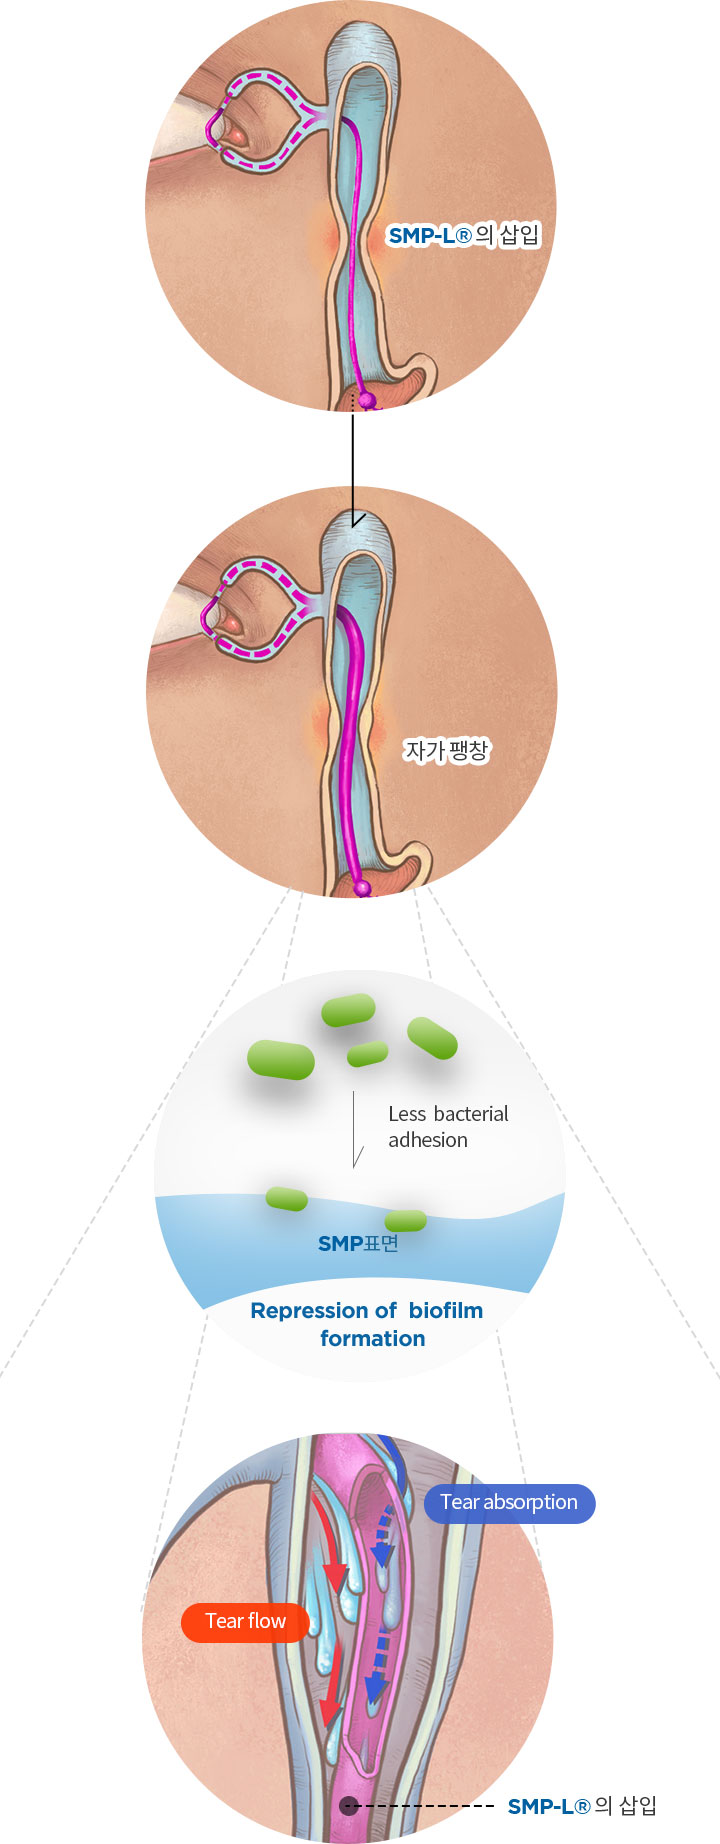
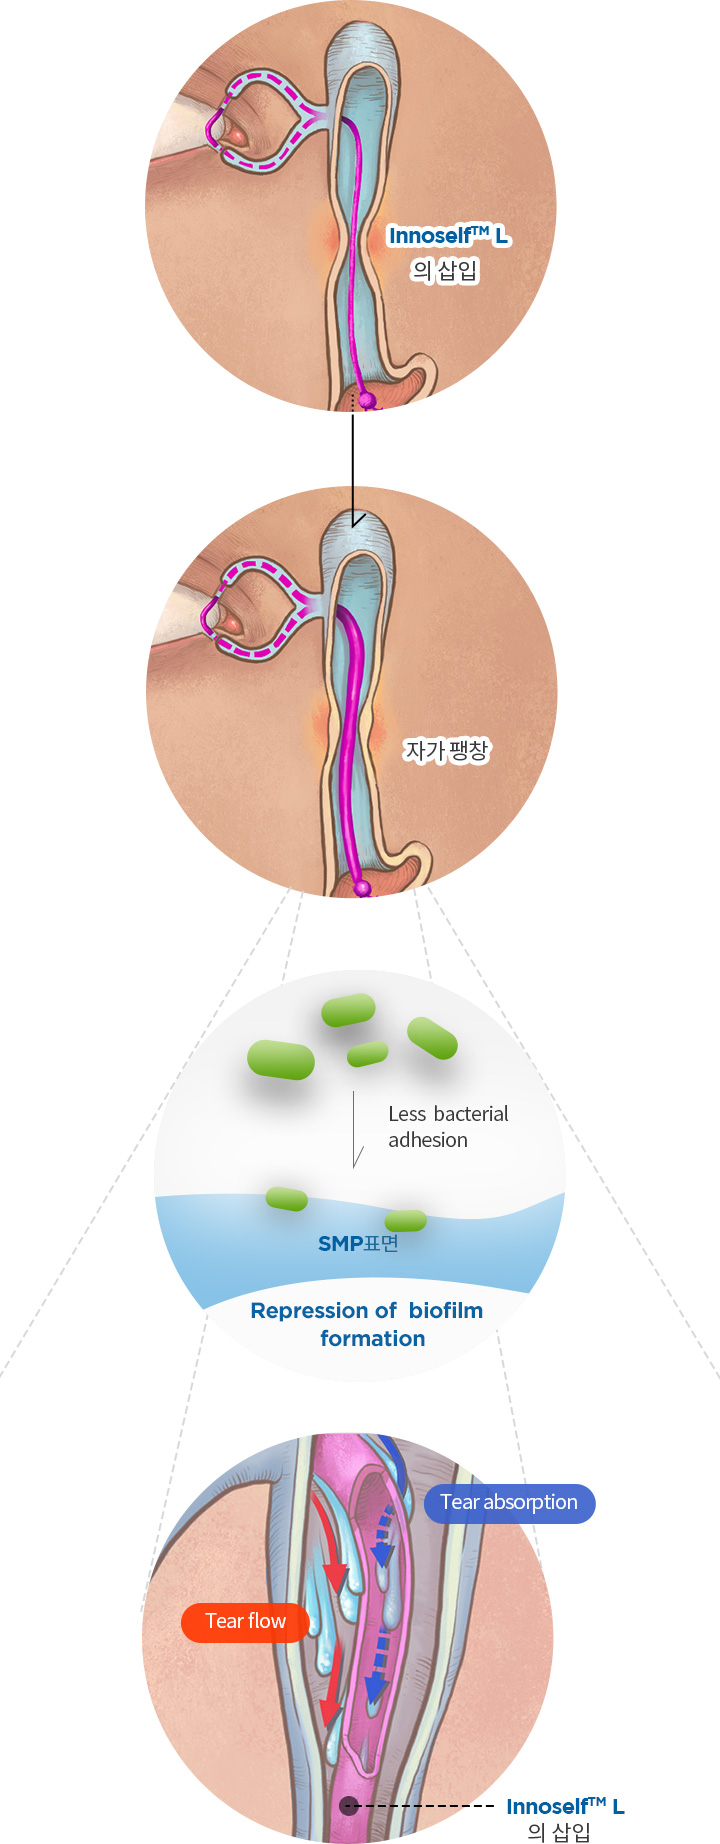
이미지에 포함된 제품명 수정(국문)

Changed region(s): [[0.7028, 0.9582, 0.9167, 1.0], [0.55, 0.0927, 0.7639, 0.1546]]

diff --git a/src/components/ko/m/Header.vue b/src/components/ko/m/Header.vue
@@ -30,7 +30,7 @@
                 <h3><a href="#">제품</a></h3>
                 <div class="d-flex">
                     <div>
-                        <h4><router-link to="/m/ko/product/smp-l" data-dismiss="modal">형상기억고분자</router-link></h4>
+                        <h4><router-link to="/m/ko/product/innoself-l" data-dismiss="modal">형상기억고분자</router-link></h4>
                         <ul>
                             <li><router-link to="/m/ko/product/innoself-l" data-dismiss="modal">누도 누액관 스텐트</router-link></li>
                             <li><router-link to="/m/ko/product/innoself-v" data-dismiss="modal">혈관 외벽 스텐트</router-link></li>
